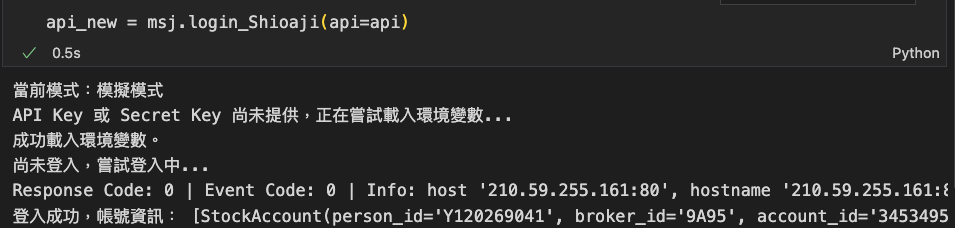
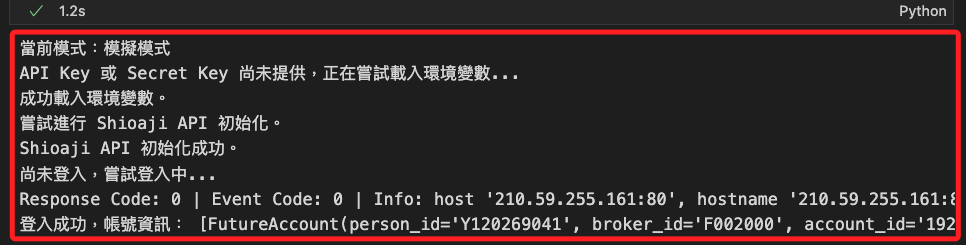
Commit on 2024-12-19 14:29:11

Changed region(s): [[0.0, 0.0, 1.0, 1.0]]

diff --git a/D74_永豐/03_登入.md b/D74_永豐/03_登入.md
@@ -91,25 +91,22 @@ _編輯 `MyShioaji.py`，先建立幾個基本的函數_
 3. 檢查是否傳入 API 物件；命名時使用前綴下底線，這在 Python 命名慣例中代表這是模組內部使用的私有函數。
 
     ```python
-    # 檢查是否傳入 API
     def _get_or_init_api(api=None):
-        # 若有未傳入
+        """
+        確保返回的 API 實例是唯一的，並保存在全域變數中。
+        """
+        # 如果傳入了 API，直接返回
         if api is not None:
-            # 直接返回
             return api
-        # 若未傳入 api，檢查全域是否存在變數 api
+
+        # 如果全域變數 `api` 存在且不為 None，返回全域變數
         if 'api' in globals() and globals()['api'] is not None:
-            api = globals()['api']
-            return api
-        # 全域無 api 變數或為 None，嘗試初始化
+            return globals()['api']
+
+        # 初始化 API 並存入全域變數
         try:
-            print("嘗試進行 Shioaji API 初始化。")
-            # 呼叫初始化函數
+            print("嘗試初始化 Shioaji API。")
             api = init_Shioaji()
-            if not api:
-                print("API 初始化失敗，無法繼續操作。")
-                return None
-            # 將成功的 API 存入全域變數
             globals()['api'] = api
             return api
         except Exception as e:
@@ -380,7 +377,7 @@ _開啟 `.ipynb`，在前面步驟已經載入模組_
 
 <br>
 
-4. 檢查登入狀態，這個函數要傳入必要參數 `api`。
+4. 傳入指定的 `api` 對象檢查登入狀態。
 
     ```python
     # 檢查登入狀態
